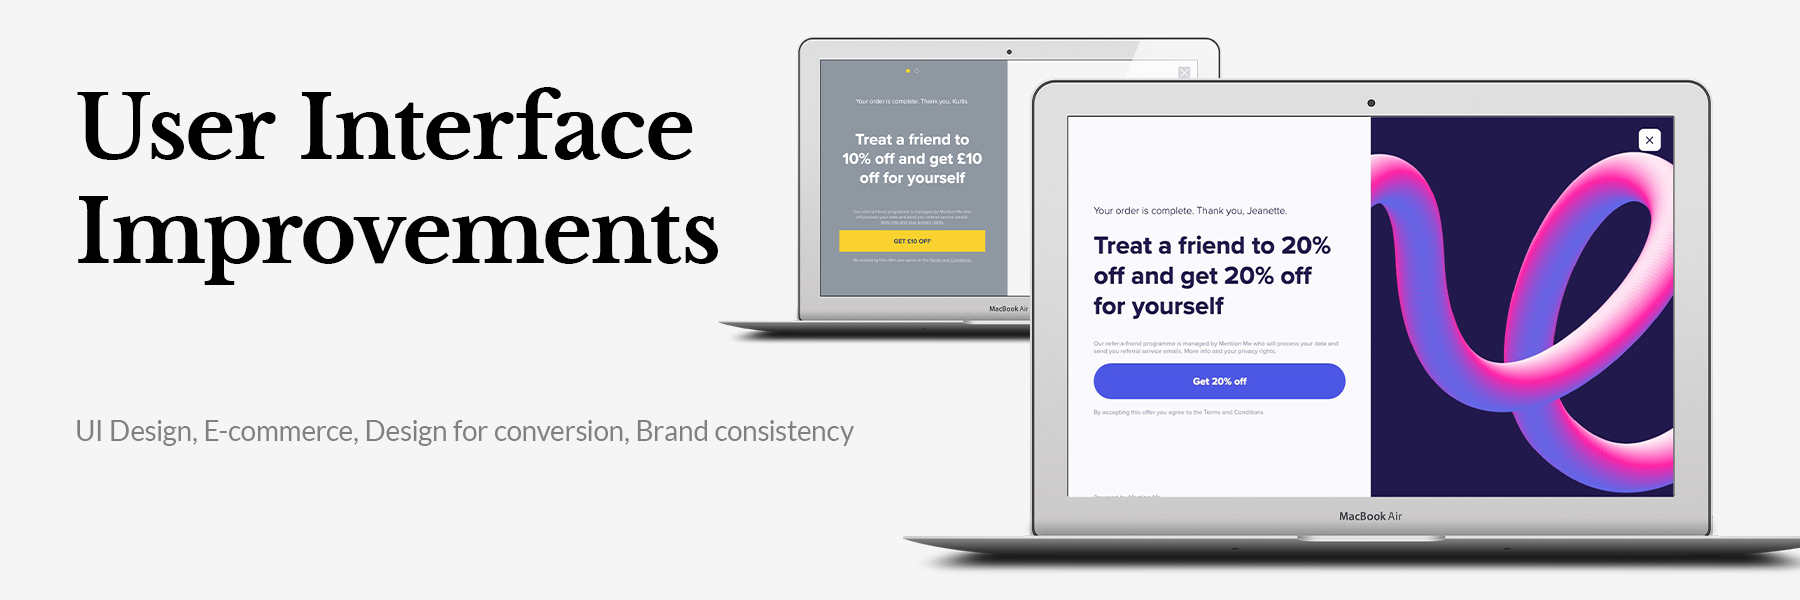
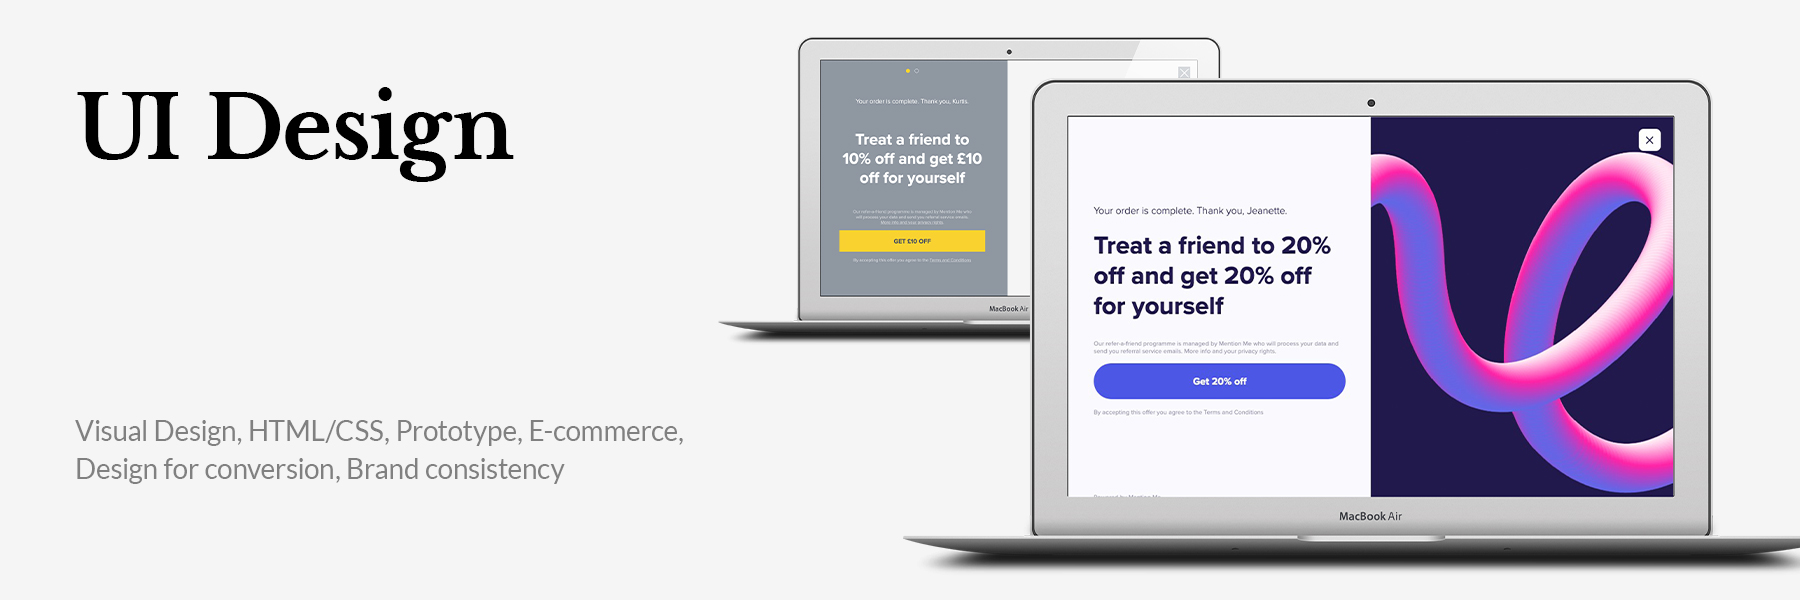
Mobile fixes, name linked, UI image update and some project updates (less img)

Changed region(s): [[0.0311, 0.69, 0.4667, 0.81], [0.0622, 0.15, 0.4044, 0.3], [0.0311, 0.33, 0.4044, 0.48]]

diff --git a/projects_ui_improvements.html b/projects_ui_improvements.html
@@ -37,8 +37,10 @@
             <div class="nav-black fluid-container fixed-top" role="navigation">
                 <div class="container">
                     <div class="row desktop-nav">
-                        <div class="col-8 nav navbar justify-content-md-left">
-                            <p class="name">Kate Prasolek <span class="menu_title">digital designer</span></p>
+                        <div class="col-md-8 col-lg-8 col-sm-12 nav navbar justify-content-md-left">
+                            <a href="https://kateprasolek.github.io/portfolio">
+                                <p class="name">Kate Prasolek <span class="menu_title">digital designer</span></p>
+                            </a>
                         </div>
 
                         <div class="col-4 ghost-nav justify-content-md-right">
@@ -115,7 +117,7 @@
         <div class="container"> 
             <div class="row">
                 <div class="col-md-8">
-                    <h1 class="title">User Interface Improvements</h1>
+                    <h1 class="title">UI Design</h1>
                 </div>
             </div>
         </div>
@@ -124,9 +126,9 @@
             <div class="row">
                 <div class="col-md-8">
 
-                    <p class="about-me-desktop">I collaborated with Product Design team to improve internally used parts of the platform</br> for better experience  for sales team and to streamline work of client designers.</p>
+                    <p class="about-me-desktop">I collaborated with Product Design team to improve internally used parts of the platform.</p>
                     
-                    <p class="about-me-mobile">I collaborated with Product Design team to improve internally used parts of the platform for better experience for sales team and to streamline work of client designers.</p>
+                    <p class="about-me-mobile">I collaborated with Product Design team to improve internally used parts of the platform.</p>
 
                 </div>
             </div> 
@@ -172,34 +174,16 @@
             <div class="row">
                 <div class="col-md-12">
 
-                    <p class="about-me-desktop">I proactively analysed and enhanced UI to improve the brand consistency and overall user experience, but also to boost conversion and performance.</br> Following the research and mockups created I conducted the design workshop with clients like Gym Queen (Vitality brands), Soda Stream, Ego.</p>
+                    <p class="about-me-desktop">I proactively analysed and enhanced UI to improve the brand consistency, user experience, and to boost conversion and performance.</br> I conducted the design workshop directly with clients like Gym Queen (Vitality brands), Soda Stream, Ego, Paula's Choice.</p>
                     
-                    <p class="about-me-mobile">I proactively analysed and enhanced UI to improve the brand consistency and overall user experience, but also to boost conversion and performance. Following the research and mockups created I conducted the design workshop with clients like Gym Queen (Vitality brands), Soda Stream, Ego.</p>
+                    <p class="about-me-mobile">I proactively analysed and enhanced UI to improve the brand consistency, user experience, and to boost conversion and performance.</br> I conducted the design workshop directly with clients like Gym Queen (Vitality brands), Soda Stream, Ego, Paula's Choice.</p>
 
                 </div>
             </div> 
 
             <div class="row project-imgages-row">
                 <div class="col-md-12">
-                    <img class="img-fluid" src="images/optimised/projects_img/ui_improvements/img1.png" alt="Mention Me UI improvements">    
-                </div>
-            </div>
-
-            <div class="row project-imgages-row">
-                <div class="col-md-12">
-                    <img class="img-fluid" src="images/optimised/projects_img/ui_improvements/img1a.png" alt="Mention Me UI improvements">    
-                </div>
-            </div>
-
-            <div class="row project-imgages-row">
-                <div class="col-md-12">
                     <img class="img-fluid" src="images/optimised/projects_img/ui_improvements/img1b.png" alt="Mention Me UI improvements">    
-                </div>
-            </div>
-
-            <div class="row project-imgages-row">
-                <div class="col-md-12">
-                    <img class="img-fluid" src="images/optimised/projects_img/ui_improvements/img1c.png" alt="Mention Me UI improvements">    
                 </div>
             </div>
 
@@ -211,7 +195,54 @@
 
             <div class="row project-imgages-row">
                 <div class="col-md-12">
-                    <img class="img-fluid" src="images/optimised/projects_img/ui_improvements/img1e.png" alt="Mention Me UI improvements">    
+                    <img class="img-fluid" src="images/optimised/projects_img/ui_improvements/img1f.png" alt="Mention Me UI improvements">    
+                </div>
+            </div>
+        </div>
+
+
+
+
+        <div class="container project-next"> 
+
+            <div class="row">
+                <div class="col-md-12">
+
+                    <p class="about-me-desktop">I designed web interfaces for multiple touchpoints for clients like LG, Samsung, BT, Emma Bridgewater, Biscuiteers, Joseph Joseph, Mori, LNER, Le Col, QVC, Michael Kors, Emma Sleep, Secret Escapes, Ocado and many more to deliver referral programm customer journey styling consistent with the brand's guidelines.</p>
+                    
+                    <p class="about-me-mobile">I designed web interfaces for multiple touchpoints for clients like LG, Samsung, BT, Emma Bridgewater, Biscuiteers, Joseph Joseph, Mori, LNER, Le Col, QVC, Michael Kors, Emma Sleep, Secret Escapes, Ocado and many more to deliver referral programm customer journey styling consistent with the brand's guidelines.</p>
+
+                </div>
+            </div> 
+
+            <div class="row project-imgages-row">
+                <div class="col-md-12">
+                    <img class="img-fluid" src="images/optimised/projects_img/digital_designs/img1a.png" alt="mm websites img1a">    
+                </div>
+            </div>
+
+            <div class="row project-imgages-row">
+                <div class="col-md-12">
+                    <img class="img-fluid" src="images/optimised/projects_img/digital_designs/img1b.png" alt="mm websites img1b">    
+                </div>
+            </div>
+
+            <div class="row project-imgages-row">
+                <div class="col-md-12">
+                    <img class="img-fluid" src="images/optimised/projects_img/digital_designs/img1c.png" alt="mm websites img1c">    
+                </div>
+            </div>
+
+            <div class="row project-imgages-row">
+                <div class="col-md-12">
+                    <img class="img-fluid" src="images/optimised/projects_img/digital_designs/img1d.png" alt="mm websites img1d">    
+                </div>
+            </div>
+
+            <div class="row project-imgages-row">
+                <div class="col-md-12">
+                    <p class="about-me-desktop">Unstyled website template I styled via CSS to match client's branding.</p>
+                    <img class="img-fluid" src="images/optimised/projects_img/digital_designs/img1.png" alt="mm websites img1">    
                 </div>
             </div>
         </div>

diff --git a/projects_digital_designs.html b/projects_digital_designs.html
@@ -37,8 +37,10 @@
             <div class="nav-black fluid-container fixed-top" role="navigation">
                 <div class="container">
                     <div class="row desktop-nav">
-                        <div class="col-8 nav navbar justify-content-md-left">
-                            <p class="name">Kate Prasolek <span class="menu_title">digital designer</span></p>
+                        <div class="col-md-8 col-lg-8 col-sm-12 nav navbar justify-content-md-left">
+                            <a href="https://kateprasolek.github.io/portfolio">
+                                <p class="name">Kate Prasolek <span class="menu_title">digital designer</span></p>
+                            </a>
                         </div>
 
                         <div class="col-4 ghost-nav justify-content-md-right">
@@ -134,13 +136,6 @@
 
             <div class="row project-imgages-row">
                 <div class="col-md-12">
-                    <p class="about-me-desktop">Unstyled website template I styled via CSS to match client's branding.</p>
-                    <img class="img-fluid" src="images/optimised/projects_img/digital_designs/img1.png" alt="mm websites img1">    
-                </div>
-            </div>
-
-            <div class="row project-imgages-row">
-                <div class="col-md-12">
                     <img class="img-fluid" src="images/optimised/projects_img/digital_designs/img1a.png" alt="mm websites img1a">    
                 </div>
             </div>
@@ -160,6 +155,13 @@
             <div class="row project-imgages-row">
                 <div class="col-md-12">
                     <img class="img-fluid" src="images/optimised/projects_img/digital_designs/img1d.png" alt="mm websites img1d">    
+                </div>
+            </div>
+
+            <div class="row project-imgages-row">
+                <div class="col-md-12">
+                    <p class="about-me-desktop">Unstyled website template I styled via CSS to match client's branding.</p>
+                    <img class="img-fluid" src="images/optimised/projects_img/digital_designs/img1.png" alt="mm websites img1">    
                 </div>
             </div>
 

diff --git a/about.html b/about.html
@@ -37,8 +37,10 @@
             <div class="nav-black fluid-container fixed-top" role="navigation">
                 <div class="container">
                     <div class="row desktop-nav">
-                        <div class="col-8 nav navbar justify-content-md-left">
-                            <p class="name">Kate Prasolek <span class="menu_title">digital designer</span></p>
+                        <div class="col-md-8 col-lg-8 col-sm-12 nav navbar justify-content-md-left">
+                            <a href="https://kateprasolek.github.io/portfolio">
+                                <p class="name">Kate Prasolek <span class="menu_title">digital designer</span></p>
+                            </a>
                         </div>
 
                         <div class="col-4 ghost-nav justify-content-md-right">

diff --git a/index.html b/index.html
@@ -48,8 +48,10 @@
             <div class="nav-black fluid-container fixed-top" role="navigation">
                 <div class="container">
                     <div class="row desktop-nav">
-                        <div class="col-8 nav navbar justify-content-md-left">
-                            <p class="name">Kate Prasolek <span class="menu_title">digital designer</span></p>
+                        <div class="col-md-8 col-lg-8 col-sm-12 nav navbar justify-content-md-left">
+                            <a href="https://kateprasolek.github.io/portfolio">
+                                <p class="name">Kate Prasolek <span class="menu_title">digital designer</span></p>
+                            </a>
                         </div>
 
                         <div class="col-4 ghost-nav justify-content-md-right">

diff --git a/projects_emails.html b/projects_emails.html
@@ -37,8 +37,10 @@
             <div class="nav-black fluid-container fixed-top" role="navigation">
                 <div class="container">
                     <div class="row desktop-nav">
-                        <div class="col-8 nav navbar justify-content-md-left">
-                            <p class="name">Kate Prasolek <span class="menu_title">digital designer</span></p>
+                        <div class="col-md-8 col-lg-8 col-sm-12 nav navbar justify-content-md-left">
+                            <a href="https://kateprasolek.github.io/portfolio">
+                                <p class="name">Kate Prasolek <span class="menu_title">digital designer</span></p>
+                            </a>
                         </div>
 
                         <div class="col-4 ghost-nav justify-content-md-right">

diff --git a/css/base.css b/css/base.css
@@ -1,6 +1,6 @@
 
 body {
-    font-family: 'Lato', serif;
+    font-family: 'Lato', sans-serif;
     font-weight: 400;
 }
 
